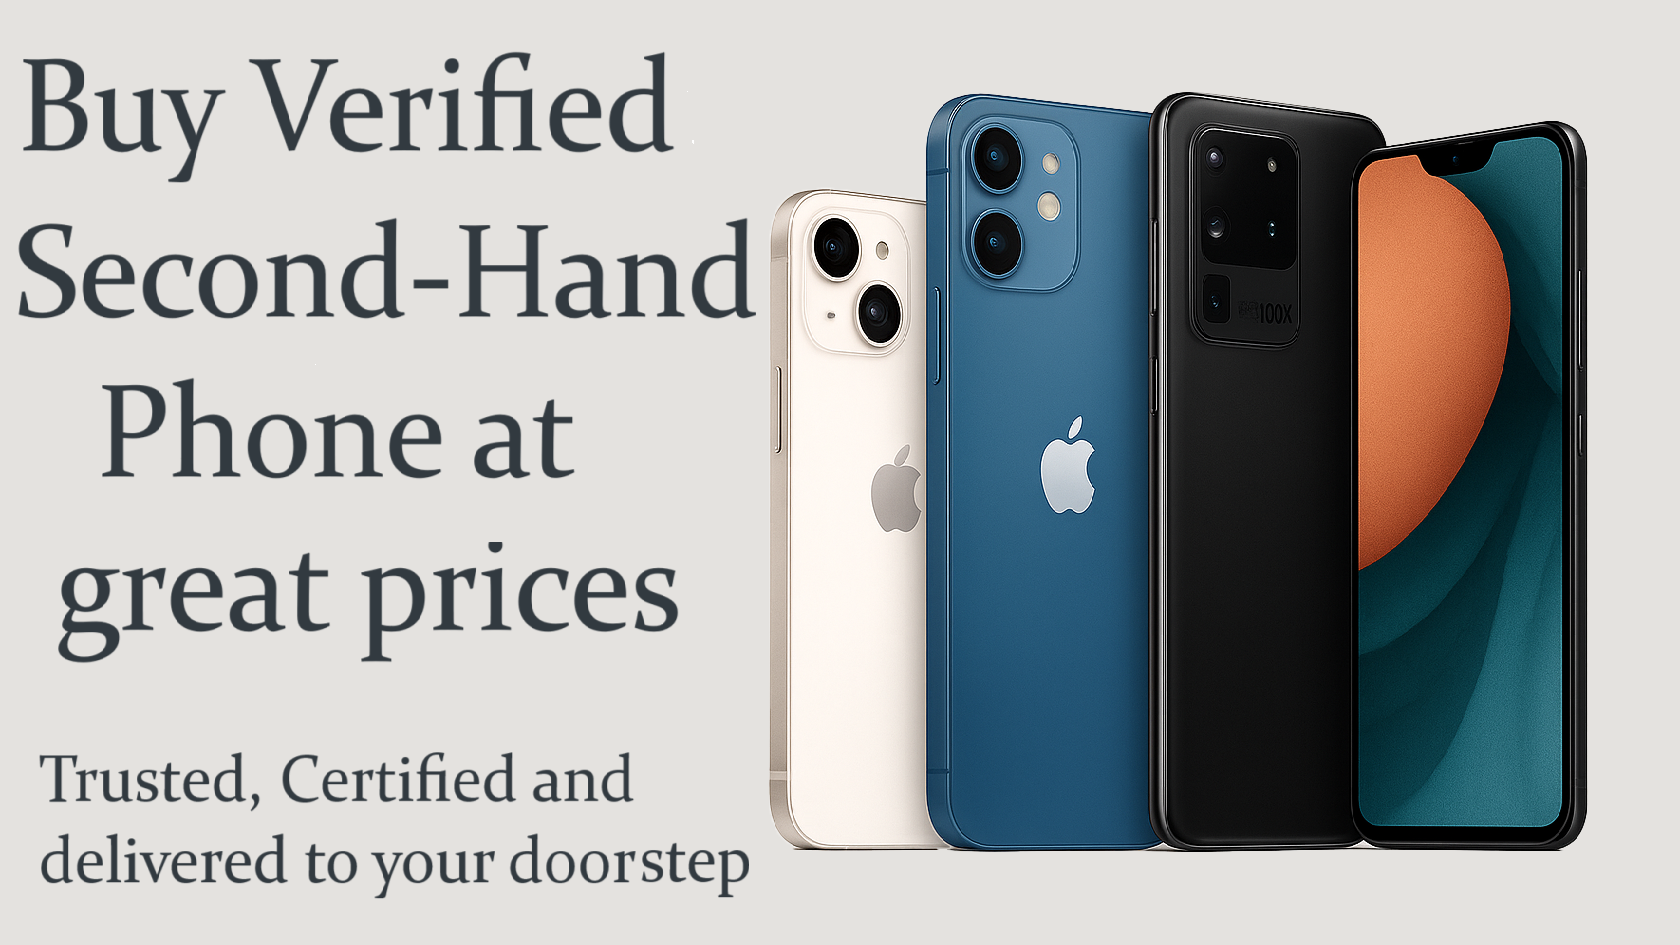
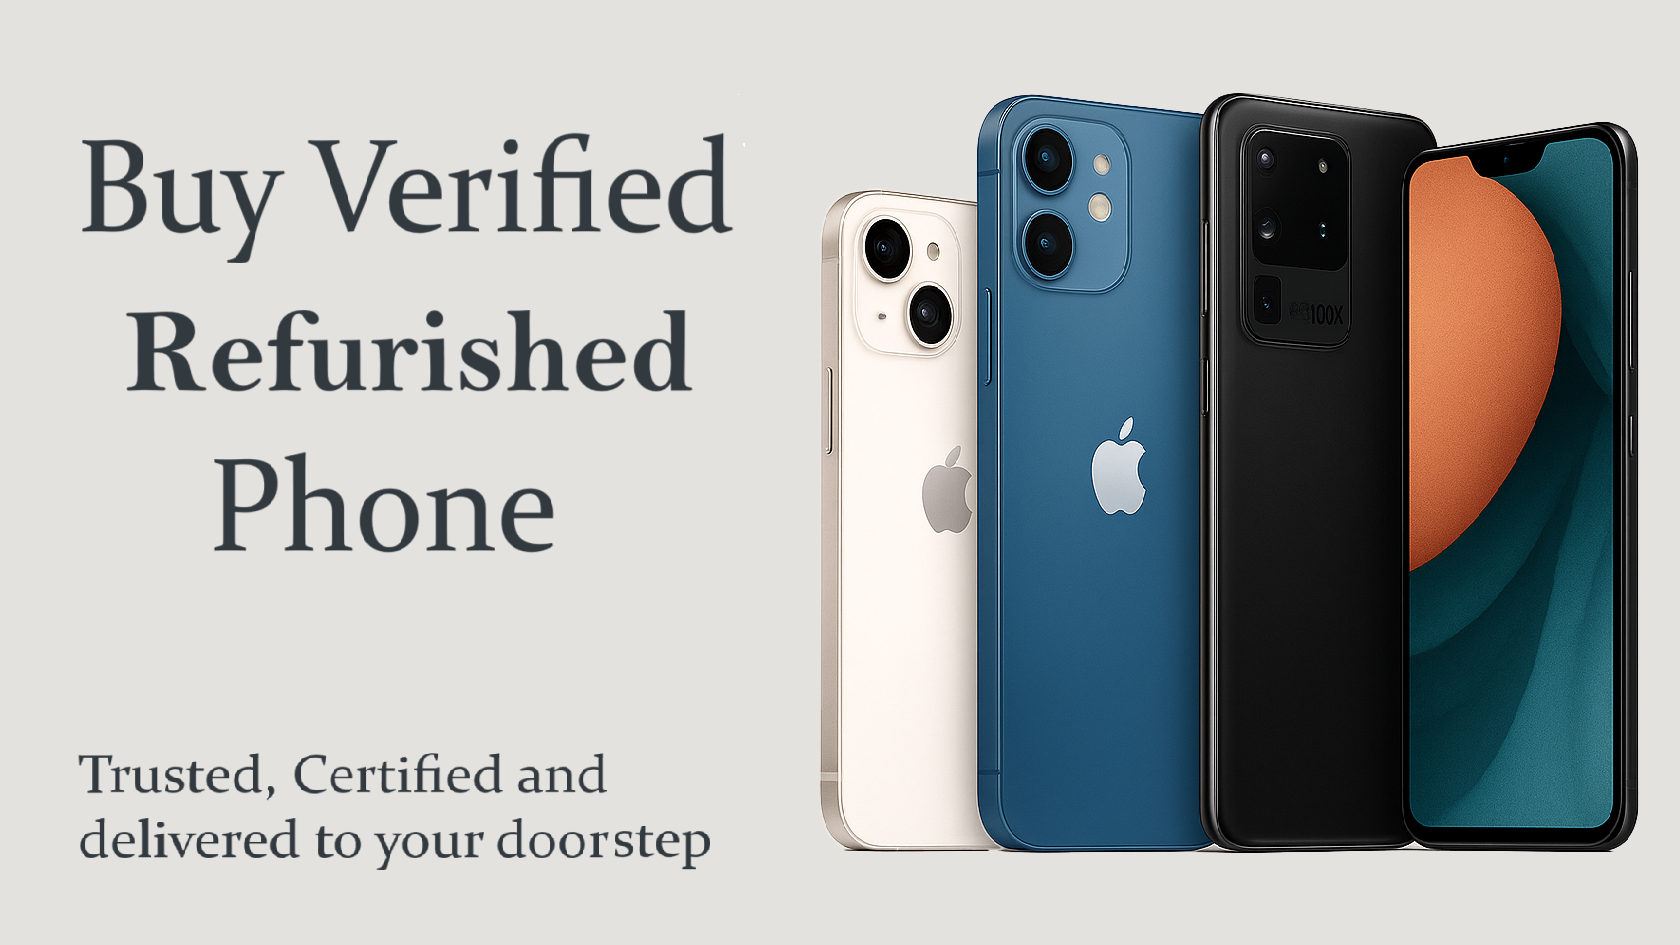
see

diff --git a/public/css/store.css b/public/css/store.css
@@ -6,10 +6,15 @@
 }
 
 /* optional extra safety for iOS */
-html, body {
+html,
+body {
   -webkit-touch-callout: none;
 }
 
+* {
+  margin: 0;
+  padding: 0;
+}
 
 /* AI Wrapper for whole slider */
 #store-wrapper {
@@ -19,74 +24,63 @@ html, body {
   margin-top: 4vh;
 }
 
+
+
 /* Horizontal sliding container */
 #slider {
   display: flex;
   transition: none;
-  width: 300vw;/* 3 sections * 100vw */
-   transform: translateX(-100vw);
+  width: 300vw; /* 3 sections * 100vw */
+  transform: translateX(-100vw);
 }
 
 /* Each section */
 .store-section {
   flex: 0 0 100vw;
   box-sizing: border-box;
-  text-align: center;
-   margin: 0;            /* remove gap */
-  padding: 0; 
-  
-  
+ 
+  margin: 0; /* remove gap */
+  padding: 0;
 }
 
 /* Image container with nav arrows */
-.image-container {
-  position: relative;
-  justify-content: center;
-  align-items: center;
-  background-color: #9d9d9d;
-  height: 30vh;
+.image-refurb {
+  position: relative;   /* new line */
+  aspect-ratio: 4240/2808;
   width: 100vw;
+  background: url("/images/store-refurb.jpeg") center/cover no-repeat;
   overflow: hidden;
-  margin: 0;
   padding: 0;
- 
+  
 }
 
-.image-container1 {
-  position: relative;
-  justify-content: center;
-  align-items: center;
-  background-color: #d51d1d;
-  height: 30vh;
+.image-new {
+  position: relative; 
+  aspect-ratio: 4240/2808;
   width: 100vw;
+  background: url("/images/store-new.jpg") center/cover no-repeat;
   overflow: hidden;
-  margin: 0;
   padding: 0;
- 
+  
 }
 
-.image-container2 {
-  position: relative;
-  justify-content: center;
-  align-items: center;
-  background-color: #18ffae;
-  height: 30vh;
+.image-accessory {
+  position: relative; 
+  aspect-ratio: 4240/2808;
   width: 100vw;
+  background: url("/images/store-accessory.jpg") center/cover no-repeat;
   overflow: hidden;
-  margin: 0;
   padding: 0;
- 
+  
 }
 
 .image-container img {
   width: 100%;
 
   object-fit: contain;
-  
 }
 
 /* Left/right nav buttons */
-
 
 ul {
   margin-top: 15px;
@@ -105,7 +99,6 @@ ul li {
   transform: translateY(-50%);
   font-size: 2rem;
   color: white;
-  
   padding: 10px;
   border-radius: 50%;
   cursor: pointer;
@@ -116,7 +109,7 @@ ul li {
 
 /* Hover & click animation */
 .nav-icon:hover {
-  background: rgba(0,0,0,0.8);
+  background: rgba(0, 0, 0, 0.8);
   transform: translateY(-50%) scale(1.1);
 }
 
@@ -125,21 +118,13 @@ ul li {
 }
 
 /* Left and Right placement */
-.left-icon {
-  left: 15px;
-}
-
-.right-icon {
-  right: 15px;
-}
-
 
 .nav-icon {
   position: absolute;
   top: 50%;
   transform: translateY(-50%);
-  display: inline-block;      /* allow transforms/positioning */
-  font-size: 2.5rem;
+  display: inline-block; /* allow transforms/positioning */
+  font-size: 6vw;
   color: #fff;
   cursor: pointer;
 
@@ -164,7 +149,7 @@ ul li {
 .nav-icon:hover,
 .nav-icon:active,
 .nav-icon:focus {
-  transform: translateY(-50%);  /* keep always same position */
+  transform: translateY(-50%); /* keep always same position */
   background: transparent !important;
   box-shadow: none !important;
   outline: none !important;
@@ -172,15 +157,17 @@ ul li {
 
 /* keep keyboard accessibility — visible only when focused by keyboard */
 .nav-icon:focus-visible {
-  outline: 2px solid rgba(255,255,255,0.6);
+  outline: 2px solid rgba(255, 255, 255, 0.6);
   outline-offset: 4px;
 }
 
 /* left / right placement */
-.left-icon { left: 15px; }
-.right-icon { right: 15px; }
-
-
+.left-icon {
+  left: 5px;
+}
+.right-icon {
+  right: 5px;
+}
 
 /* --- Tab Content Sections --- */
 .mobile-sections {
@@ -366,18 +353,3 @@ ul li {
   height: 100%;
   z-index: 2;
 }
-
-/* start here my */
-
-/* #new-mobile-section{
-width: 100vw;
-}
-#refurbished-section{
-  width: 100vw;
-}
-#accessory-section{
-  width: 100vw;
-} */
-
-
-

diff --git a/public/css/index.css b/public/css/index.css
@@ -94,7 +94,7 @@
 /* category 76 to  */
 
 .category {
-  margin-top: 2vh;
+  margin-top: 3vh;
 }
 /* header row */
 .category-head {
@@ -111,8 +111,8 @@
 .category-head::before {
   content: "";
   position: absolute;
-  left: 3vw;
-  right: 3vw;
+  left: 5vw;
+  right: 5vw;
   bottom: -6px; /* distance of line from text */
   height: 1.5px;
   background: #515151;
@@ -161,19 +161,20 @@
   width: 42.5vw;
   margin-right: 5vw;
   margin-left: 5vw;
-  margin-top: 2vh;
+  margin-top: 3vh;
   background: url("/images/cat-refurb.jpg") center/cover no-repeat;
   border: 2px solid #0e192a;
 }
 .box-new {
   height: 15vh;
   width: 42.5vw;
-  margin-top: 2vh;
+  margin-top: 3vh;
   background: url("/images/cat-new.jpg") center/cover no-repeat;
   border: 2px solid #0e192a;
 }
 .box-accessories {
-  height: 15vh;
+  height: 16vh;
+  
   width: 90vw;
   margin-left: 5vw;
   margin-top: 2vh;
@@ -188,7 +189,7 @@
   content: "";
   position: absolute;
   inset: 0;
-  background: rgba(0, 0, 0, 0.25);
+  background: rgba(0, 0, 0, 0.15);
   border-radius: 10px;
   z-index: 1;
 }

diff --git a/public/css/storeHeader.css b/public/css/storeHeader.css
@@ -65,7 +65,8 @@ html, body {
   width: 100vw;
   height: 7vh;
   background-color: #f5f7f8;
-  border-top: 2px solid #ccc;
+  
+  box-shadow: 0 -2px 10px rgba(0, 0, 0, 0.15);
   display: flex;
   justify-content: space-around;
   align-items: center;
@@ -80,7 +81,7 @@ html, body {
   justify-content: center;
   flex: 1;
   color: #888;                 /* default grey */
-  font-size: 1.4vh;
+  font-size: 1.6vh;
   cursor: pointer;
   transition: color 0.3s ease; /* smooth color */
   text-decoration: none;       /* reset link underline */
@@ -96,8 +97,8 @@ html, body {
 
 /* Label */
 #lowerHeader .nav-item span {
-  margin-top: 0.3vh;
-  font-size: 1.2vh;
+  margin-top: 0.5vh;
+  font-size: 1.6vh;
   transition: color 0.3s ease;                        /* smooth color */
 }
 
